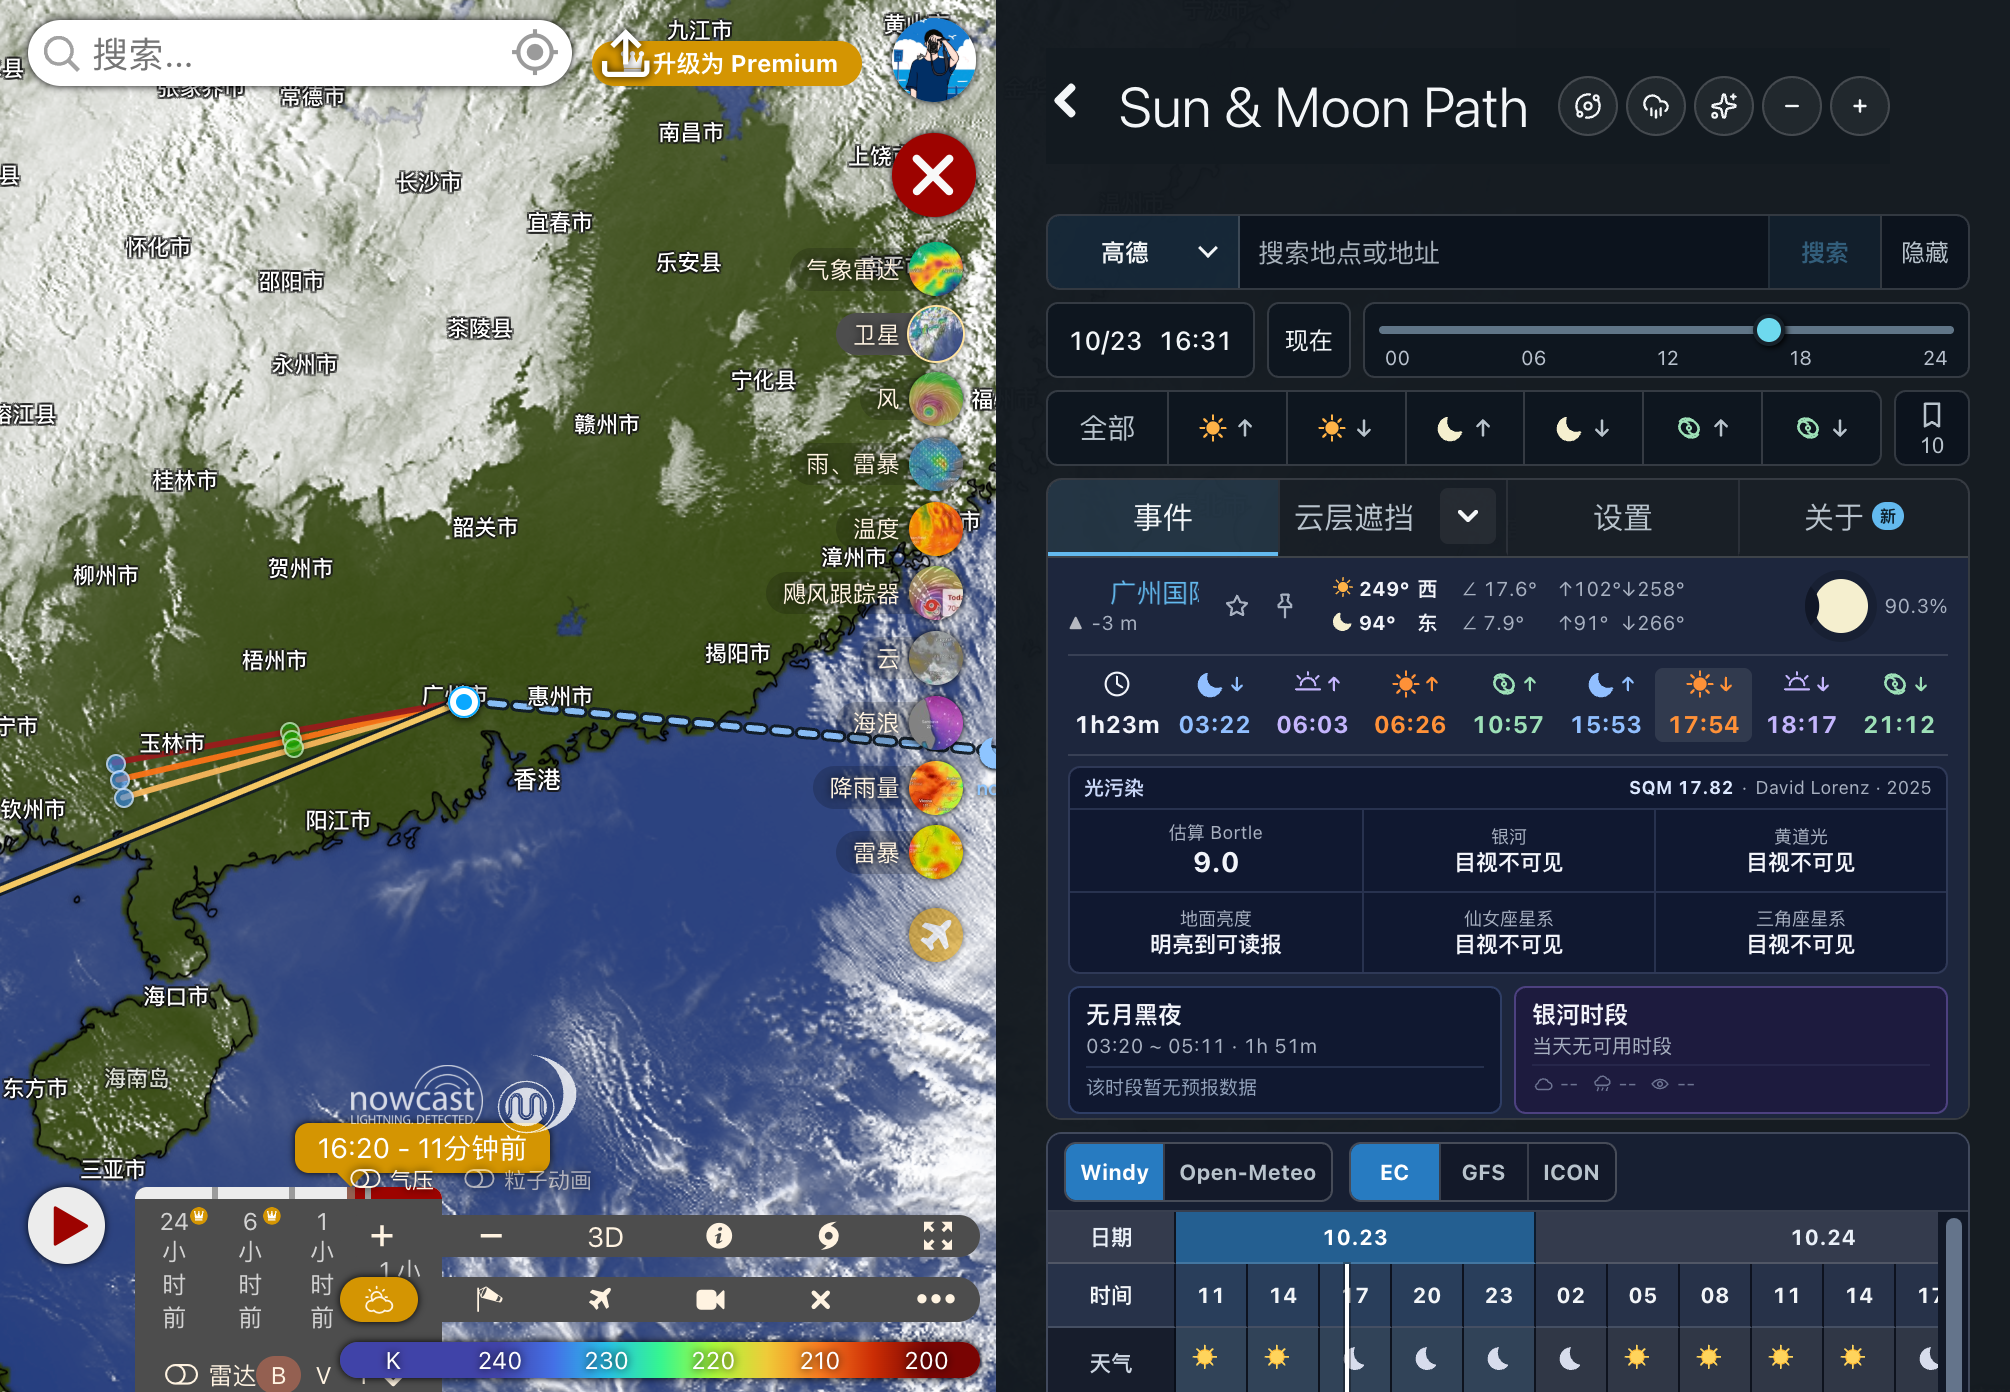
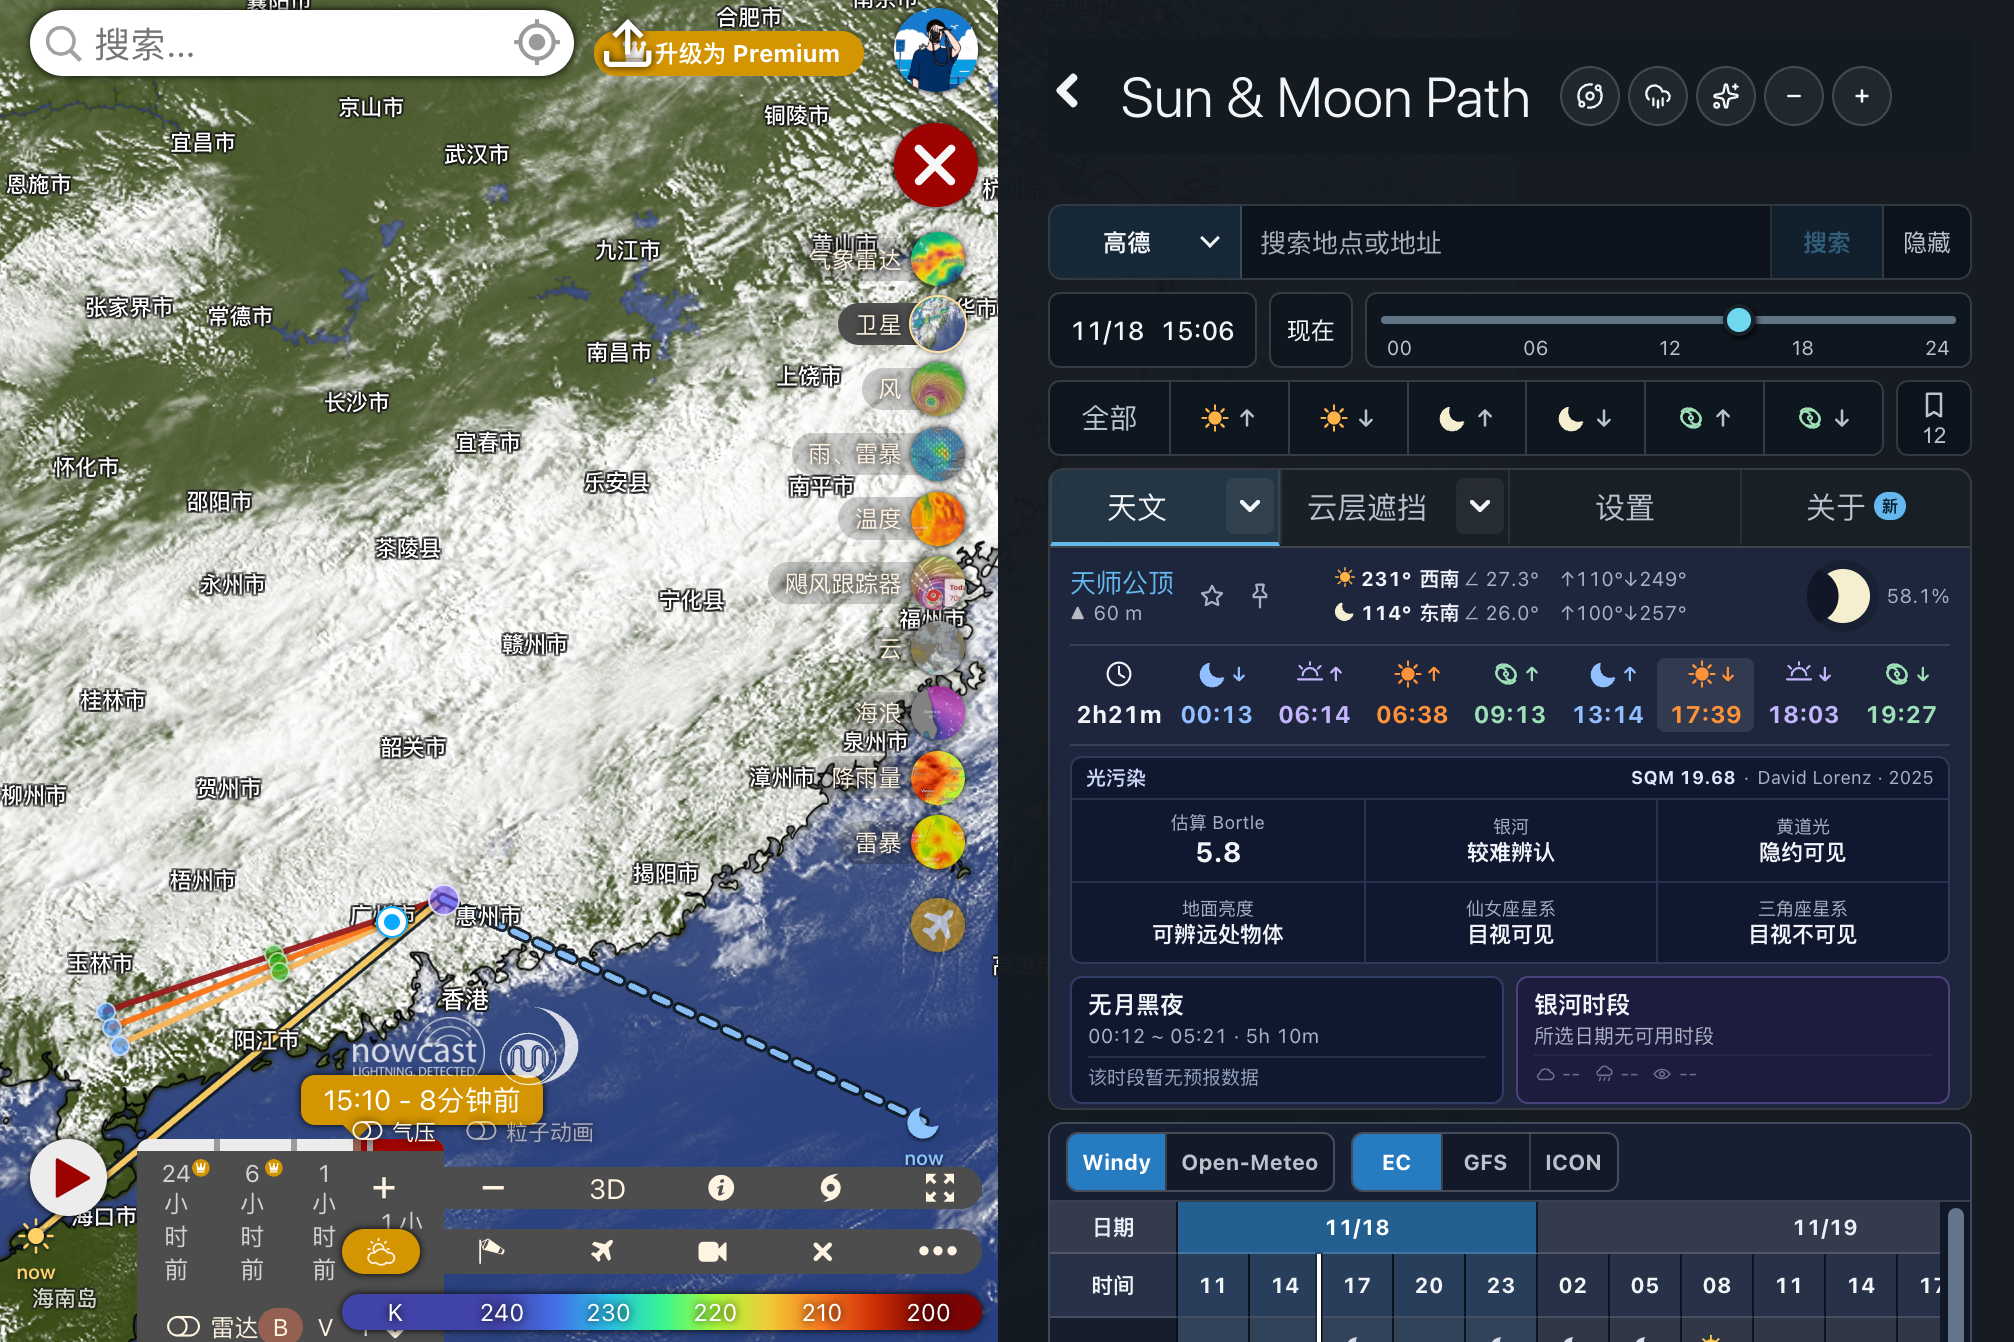
release: 更新 0.13.0 发布截图与安装说明

diff --git a/README_EN.md b/README_EN.md
@@ -21,12 +21,12 @@ Plan photography of sunrise, sunset, the Moon, Milky Way, sunrise and sunset glo
 
 Update checks use Gitee for mainland China or an unknown network region, and GitHub for other known regions. Proxies may affect detection; failed checks can be retried in About. This describes the current repository; released behavior is listed in the release notes.
 
-Current release: **0.12.6** · [Release notes](https://github.com/bytepoem/windy-plugin-sun-moon-path/releases/tag/0.12.6)
+Current release: **0.13.0** · [Release notes](https://github.com/bytepoem/windy-plugin-sun-moon-path/releases/tag/0.13.0)
 
 Paste this URL into Windy's external plugin loader, then open **Sun & Moon Path**:
 
 ```text
-https://windy-plugins.com/17629746/windy-plugin-sun-moon-path/0.12.6/plugin.min.js
+https://windy-plugins.com/17629746/windy-plugin-sun-moon-path/0.13.0/plugin.min.js
 ```
 
 1. **Choose a location:** click the map or enter WGS84 / GCJ-02 coordinates. Chinese place-name search requires your own map-service API Key in Settings.

diff --git a/README.md b/README.md
@@ -19,12 +19,12 @@
 
 ## 安装与上手
 
-当前发布版本：**0.12.6** · [更新记录](https://github.com/bytepoem/windy-plugin-sun-moon-path/releases/tag/0.12.6)
+当前发布版本：**0.13.0** · [更新记录](https://github.com/bytepoem/windy-plugin-sun-moon-path/releases/tag/0.13.0)
 
 将以下地址填入 Windy 的外部插件加载入口，打开 **Sun & Moon Path**：
 
 ```text
-https://windy-plugins.com/17629746/windy-plugin-sun-moon-path/0.12.6/plugin.min.js
+https://windy-plugins.com/17629746/windy-plugin-sun-moon-path/0.13.0/plugin.min.js
 ```
 
 1. **选机位**：点击地图，或输入 WGS84 / GCJ-02 坐标。中文地点搜索需在设置中填写自己的地图服务 API Key。
